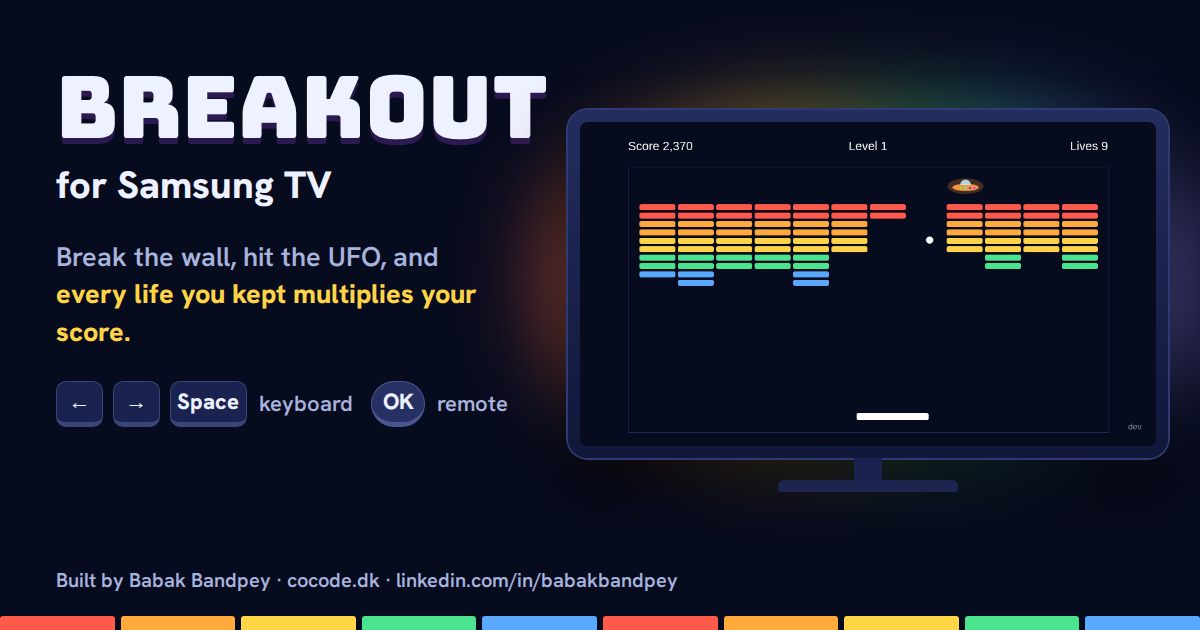
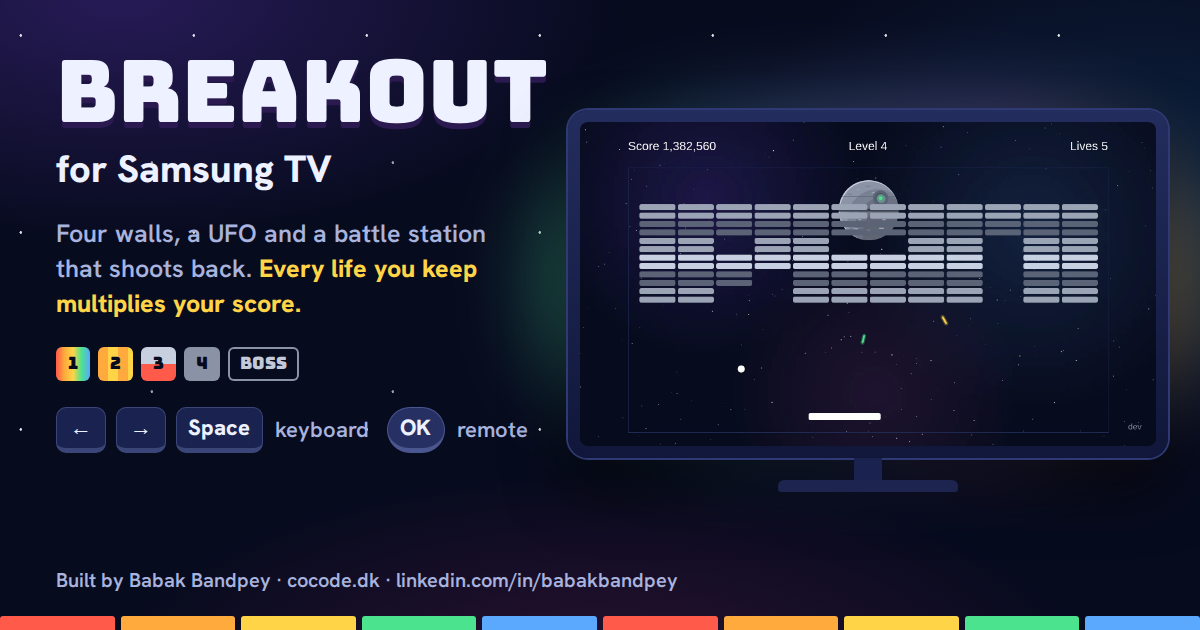
feat(site): re-render the OG image around level 4

diff --git a/website/og.html b/website/og.html
@@ -11,22 +11,30 @@
 <style>
   * { box-sizing: border-box; margin: 0; }
   html, body { width: 1200px; height: 630px; overflow: hidden; background: #070b1e; }
-  body { position: relative; font-family: "Hanken Grotesk", system-ui, sans-serif; color: #eef1ff; }
+  body::before { content: ""; position: absolute; inset: 0; z-index: -1;
+    background-image: radial-gradient(circle at 12% 18%, rgba(255,255,255,.85) 0 1px, transparent 1.6px), radial-gradient(circle at 63% 71%, rgba(255,255,255,.6) 0 1px, transparent 1.6px),
+      radial-gradient(ellipse 60% 55% at 10% 0%, rgba(90,52,178,.38), transparent 70%), radial-gradient(ellipse 50% 60% at 95% 30%, rgba(28,92,150,.3), transparent 70%),
+      radial-gradient(ellipse 60% 50% at 50% 110%, rgba(128,32,96,.3), transparent 70%);
+    background-size: 173px 197px, 241px 229px, 100% 100%, 100% 100%, 100% 100%; background-repeat: repeat, repeat, no-repeat, no-repeat, no-repeat; }
+  body { position: relative; isolation: isolate; font-family: "Hanken Grotesk", system-ui, sans-serif; color: #eef1ff; }
   .strip { position: absolute; left: 0; right: 0; bottom: 0; height: 14px; display: flex; gap: 6px; }
   .strip i { flex: 1; border-radius: 3px 3px 0 0; background: var(--c); }
-  .copy { position: absolute; left: 56px; top: 64px; width: 460px; }
+  .copy { position: absolute; left: 56px; top: 48px; width: 480px; }
   .wm { font: 400 86px/1 "Bungee", "Arial Black", sans-serif; text-shadow: 0 6px 0 #2b1a4f; }
   .sub { margin-top: 14px; font: 800 38px/1.15 "Hanken Grotesk", sans-serif; }
-  .tag { margin-top: 30px; font: 600 27px/1.4 "Hanken Grotesk", sans-serif; color: #a8b3de; }
+  .tag { margin-top: 24px; font: 600 25px/1.4 "Hanken Grotesk", sans-serif; color: #a8b3de; }
   .tag b { color: #ffd447; font-weight: 800; }
-  .keys { margin-top: 30px; display: flex; align-items: center; gap: 10px; font: 600 22px/1 "Hanken Grotesk", sans-serif; color: #a8b3de; }
+  .lv { margin-top: 26px; display: flex; gap: 8px; }
+  .lv span { display: inline-flex; align-items: center; height: 34px; padding: 0 12px; border-radius: 6px; color: #070b1e; font: 400 17px/1 "Bungee", sans-serif; }
+  .lv .boss { background: transparent; box-shadow: inset 0 0 0 2px #8a93a6; color: #c3c9d8; }
+  .keys { margin-top: 26px; display: flex; align-items: center; gap: 10px; font: 600 22px/1 "Hanken Grotesk", sans-serif; color: #a8b3de; }
   kbd { display: inline-flex; align-items: center; justify-content: center; min-width: 46px; height: 46px; padding: 0 14px; border: 1px solid #3a4677; border-bottom-width: 5px; border-radius: 10px; background: #1a2350; color: #eef1ff; font: 800 22px/1 "Hanken Grotesk", sans-serif; }
   kbd.round { border-radius: 999px; background: #263063; border-color: #4a5690; }
   .keys span { margin: 0 8px 0 2px; }
   .by { position: absolute; left: 56px; bottom: 40px; font: 600 20px/1 "Hanken Grotesk", sans-serif; color: #a8b3de; }
   .set { position: absolute; left: 568px; top: 110px; width: 600px; isolation: isolate; }
   .set::before { content: ""; position: absolute; z-index: -1; left: -4%; right: -4%; top: 0; bottom: 12%; border-radius: 40%;
-    background: linear-gradient(90deg, #ff5a4a, #ffaa3c, #ffd447, #4be38e, #5aa9ff, #b77bff); opacity: .55; filter: blur(44px); }
+    background: radial-gradient(circle at 50% 40%, #8a93a6, transparent 60%), linear-gradient(90deg, #4be38e, #5aa9ff, #b77bff, #ffd447); opacity: .45; filter: blur(44px); }
   .tv { padding: 12px; border-radius: 20px; background: linear-gradient(#232d5e, #10173a); box-shadow: 0 0 0 2px #2f3a74, 0 30px 60px rgba(0, 0, 0, .6); }
   .tv img { display: block; width: 100%; height: auto; border-radius: 8px; }
   .stand { width: 30%; height: 34px; margin: 0 auto; position: relative; }
@@ -38,11 +46,12 @@
 <div class="copy">
   <div class="wm">Breakout</div>
   <div class="sub">for Samsung TV</div>
-  <p class="tag">Break the wall, hit the UFO, and <b>every life you kept multiplies your score.</b></p>
+  <p class="tag">Four walls, a UFO and a battle station that shoots back. <b>Every life you keep multiplies your score.</b></p>
+  <div class="lv"><span style="background:linear-gradient(90deg,#ff5a4a,#ffaa3c,#ffd447,#4be38e,#5aa9ff)">1</span><span style="background:repeating-linear-gradient(90deg,#ffaa3c 0 10px,#ffd447 10px 20px)">2</span><span style="background:linear-gradient(#c8d0e0 50%,#ff5a4a 50%)">3</span><span style="background:#8a93a6">4</span><span class="boss">Boss</span></div>
   <div class="keys"><kbd>←</kbd><kbd>→</kbd><kbd>Space</kbd><span>keyboard</span><kbd class="round">OK</kbd><span>remote</span></div>
 </div>
 <div class="set">
-  <div class="tv"><img src="img/breakout-ufo-behind-wall.webp" width="1920" height="1080" alt="" /></div>
+  <div class="tv"><img src="img/breakout-level-4-battle-station.webp" width="1920" height="1080" alt="" /></div>
   <div class="stand"></div>
 </div>
 <div class="by">Built by Babak Bandpey · cocode.dk · linkedin.com/in/babakbandpey</div>
